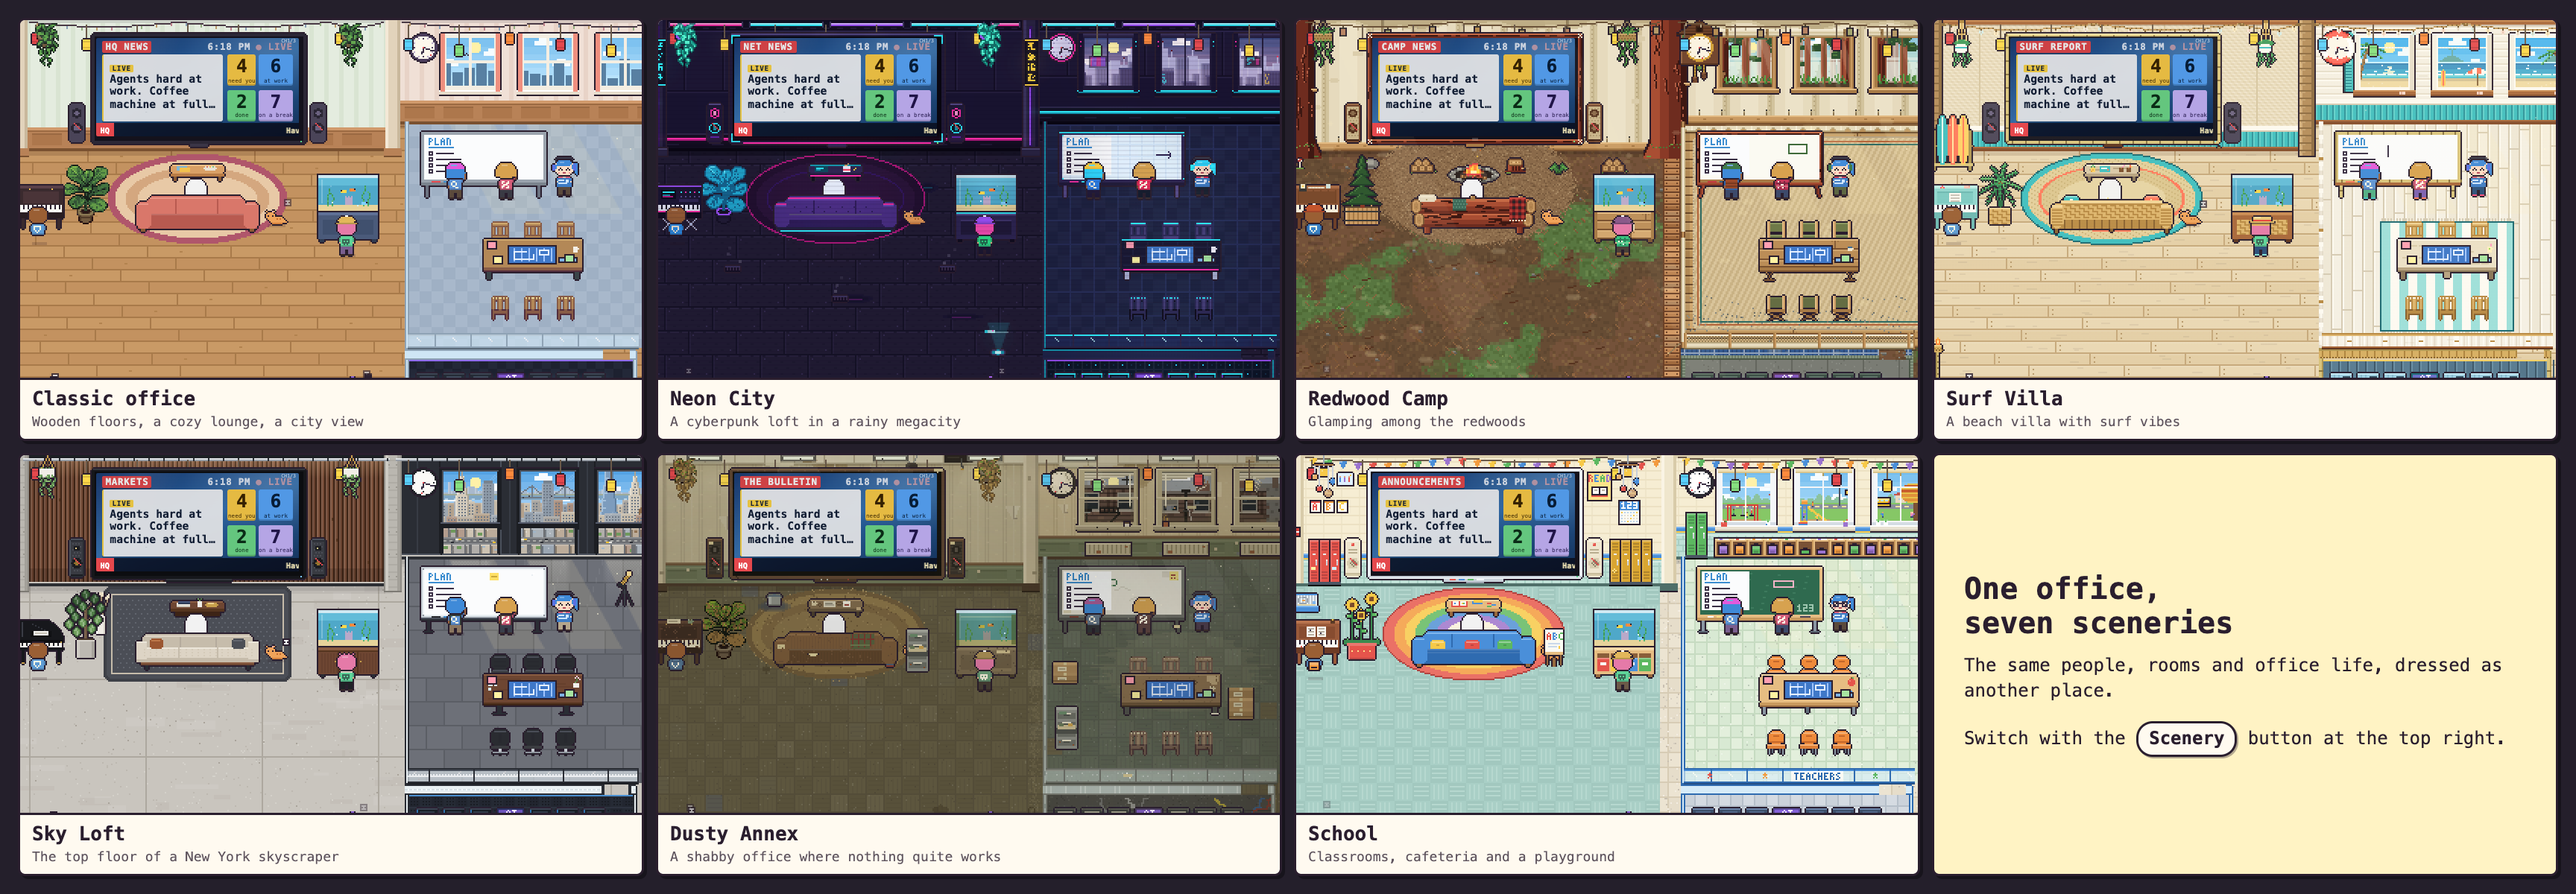
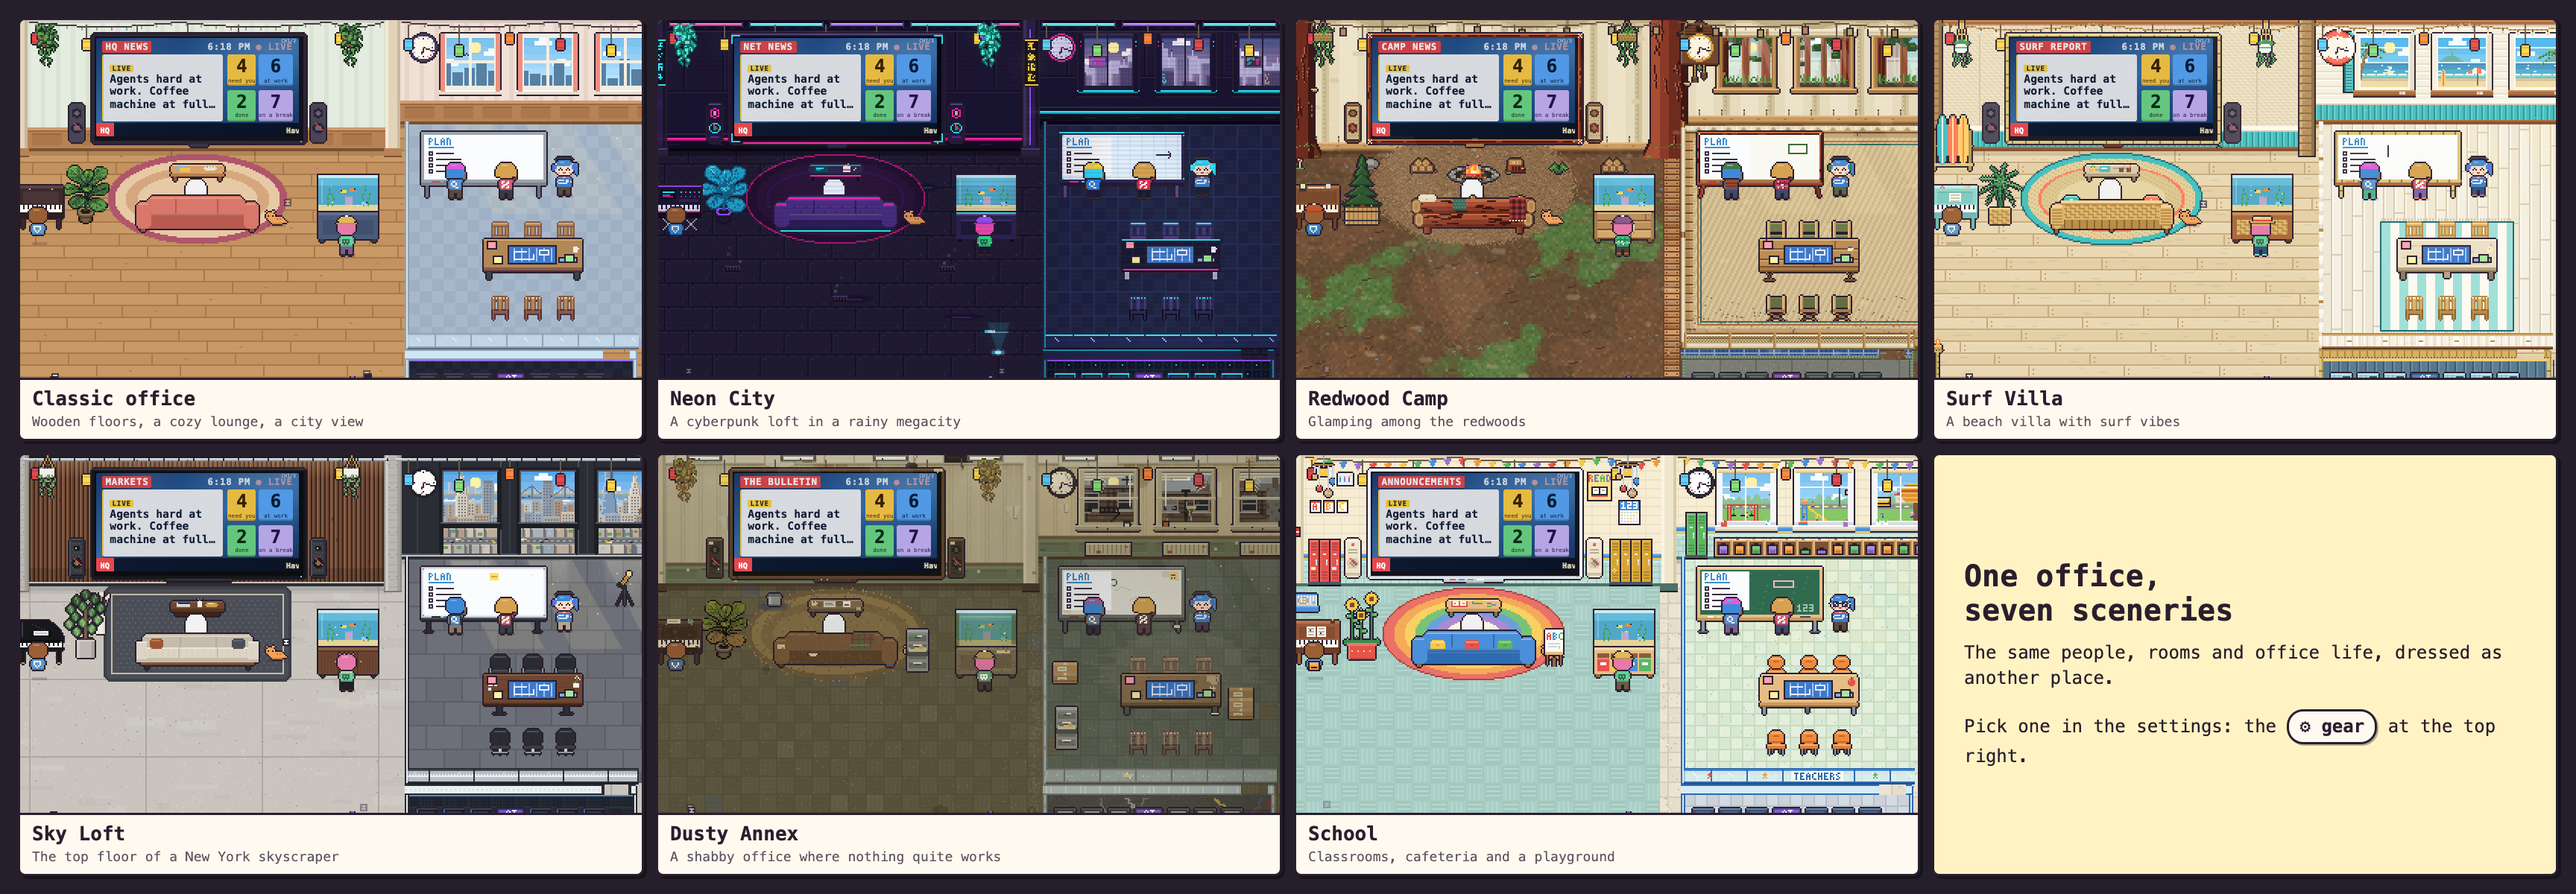
Cozy HQ 0.3.1: settings behind a gear
- A gear at the top right opens the settings: sound, the scenery and the
  office buddy (the speakers still open them too)
- The scenery switcher moves into the settings; the Names toggle stays
  next to the gear
- Docs and the scenery strip point to the gear

Changed region(s): [[0.75, 0.6167, 0.9688, 0.8633]]

diff --git a/office/OfficeView.tsx b/office/OfficeView.tsx
@@ -250,7 +250,7 @@ export function OfficeView(input: OfficeProps) {
   const [prefs, setPrefs] = useState<SoundPrefs>(() =>
     readJson<SoundPrefs>(`${storageKey}:sound`, { on: true, volume: 0.5, ambient: true }),
   );
-  const [soundOpen, setSoundOpen] = useState(false);
+  const [settingsOpen, setSettingsOpen] = useState(false);
   const [legendOpen, setLegendOpen] = useState(false);
   const [fit, setFit] = useState<Fit | null>(null);
   const [layout, setLayout] = useState<Layout | null>(null);
@@ -691,8 +691,7 @@ export function OfficeView(input: OfficeProps) {
   const onClick = (e: React.MouseEvent) => {
     sound.unlock();
     const hit = world.hitTest(toNative(e).x, toNative(e).y);
-    setSoundOpen(false);
-    setSceneryOpen(false);
+    setSettingsOpen(false);
     if (!hit) {
       setLegendOpen(false);
       return;
@@ -751,7 +750,7 @@ export function OfficeView(input: OfficeProps) {
         }
         break;
       case "speaker":
-        setSoundOpen(true);
+        setSettingsOpen(true);
         play("click");
         break;
       case "tv":
@@ -772,7 +771,6 @@ export function OfficeView(input: OfficeProps) {
   const [sceneryId, setSceneryId] = useState(() => readJson(`${storageKey}:scenery`, { id: "classic" }).id);
   useEffect(() => writeJson(`${storageKey}:scenery`, { id: sceneryId }), [sceneryId, storageKey]);
   const theme = themeById(debug.scenery ?? sceneryId);
-  const [sceneryOpen, setSceneryOpen] = useState(false);
   useEffect(() => {
     world.setTheme(theme);
     sound.setRecipes(theme.sounds);
@@ -915,7 +913,7 @@ export function OfficeView(input: OfficeProps) {
       case "tv":
         return <div className="chq-tip-hint">Change the channel</div>;
       case "speaker":
-        return <div className="chq-tip-hint">Sound {prefs.on ? `${Math.round(prefs.volume * 100)}%` : "off"}</div>;
+        return <div className="chq-tip-hint">Sound {prefs.on ? `${Math.round(prefs.volume * 100)}%` : "off"} · settings</div>;
       case "pinboard":
         return <div className="chq-tip-hint">Provider usage · refresh</div>;
       case "window":
@@ -988,13 +986,14 @@ export function OfficeView(input: OfficeProps) {
                 onOpenUrl={props.onOpenUrl}
                 onOpenThread={props.onOpenThread}
               />
-              {soundOpen ? (
-                <SoundPanel
-                  style={{
-                    left: Math.min((layout.speakers[1]!.x + layout.speakers[1]!.w + 4) * scale, W - 200),
-                    top: layout.speakers[1]!.y * scale,
-                  }}
+              {settingsOpen ? (
+                <SettingsPanel
                   prefs={prefs}
+                  scenery={theme}
+                  onScenery={(id) => {
+                    setSceneryId(id);
+                    play("chime");
+                  }}
                   onChange={(next) => {
                     sound.unlock();
                     setPrefs(next);
@@ -1005,7 +1004,7 @@ export function OfficeView(input: OfficeProps) {
                   }}
                   buddyOn={props.buddyOn}
                   onBuddy={props.onBuddy}
-                  onClose={() => setSoundOpen(false)}
+                  onClose={() => setSettingsOpen(false)}
                 />
               ) : null}
               {legendOpen ? (
@@ -1019,22 +1018,6 @@ export function OfficeView(input: OfficeProps) {
           ) : null}
           <NameTags tags={tags} width={W} height={H} onOpen={props.onOpenThread} />
           <Speech bubbles={speech} scale={scale} width={W} />
-          {layout ? (
-            <SceneryPicker
-              current={theme}
-              open={sceneryOpen}
-              onToggle={() => {
-                sound.unlock();
-                play("click");
-                setSceneryOpen((o) => !o);
-              }}
-              onPick={(id) => {
-                setSceneryId(id);
-                setSceneryOpen(false);
-                play("chime");
-              }}
-            />
-          ) : null}
           {layout ? (
             <button
               type="button"
@@ -1054,6 +1037,31 @@ export function OfficeView(input: OfficeProps) {
               <span>Names</span>
             </button>
           ) : null}
+          {layout ? (
+            <button
+              type="button"
+              className={`chq-gear-btn${settingsOpen ? " is-on" : ""}`}
+              aria-expanded={settingsOpen}
+              aria-label="Settings"
+              title="Settings: sound, scenery, buddy"
+              onClick={() => {
+                sound.unlock();
+                play("click");
+                setSettingsOpen((o) => !o);
+              }}
+            >
+              <svg width="14" height="14" viewBox="0 0 16 16" aria-hidden>
+                <path
+                  d="M6.6 1h2.8l.4 1.9 1.3.6 1.7-1 2 2-1 1.7.5 1.3 1.9.4v2.8l-1.9.4-.5 1.3 1 1.7-2 2-1.7-1-1.3.5-.4 1.9H6.6l-.4-1.9-1.3-.5-1.7 1-2-2 1-1.7-.5-1.3L0 9.4V6.6l1.9-.4.5-1.3-1-1.7 2-2 1.7 1 1.3-.6z"
+                  fill="none"
+                  stroke="currentColor"
+                  strokeWidth="1.4"
+                  strokeLinejoin="round"
+                />
+                <circle cx="8" cy="8" r="2.2" fill="none" stroke="currentColor" strokeWidth="1.4" />
+              </svg>
+            </button>
+          ) : null}
           {tooltip && tipPos ? (
             <div
               className={`chq-tip${tipPos.y * scale < 96 ? " is-below" : ""}`}
@@ -1071,38 +1079,6 @@ export function OfficeView(input: OfficeProps) {
         </div>
       </div>
     </div>
-  );
-}
-
-// -------------------------------------------------------------- scenery picker
-
-/** Top right: dress the office as another place. */
-function SceneryPicker(props: { current: Theme; open: boolean; onToggle: () => void; onPick: (id: string) => void }) {
-  return (
-    <>
-      <button type="button" className={`chq-scenery-btn${props.open ? " is-on" : ""}`} aria-expanded={props.open} title="Scenery: dress the office as another place" onClick={props.onToggle}>
-        <span aria-hidden>{props.current.icon}</span>
-        <span>Scenery</span>
-      </button>
-      {props.open ? (
-        <div className="chq-scenery-pop" role="menu" aria-label="Scenery">
-          {THEMES.map((t) => (
-            <button
-              key={t.id}
-              type="button"
-              role="menuitemradio"
-              aria-checked={t.id === props.current.id}
-              className={`chq-scenery-item${t.id === props.current.id ? " is-current" : ""}`}
-              onClick={() => props.onPick(t.id)}
-            >
-              <i aria-hidden>{t.icon}</i>
-              <b>{t.name}</b>
-              <span>{t.blurb}</span>
-            </button>
-          ))}
-        </div>
-      ) : null}
-    </>
   );
 }
 
@@ -1617,9 +1593,11 @@ function Tv(props: {
 
 // -------------------------------------------------------------- sound
 
-function SoundPanel(props: {
-  style: CSSProperties;
+/** Top right, behind the gear (and the speakers): sound, scenery and the buddy. */
+function SettingsPanel(props: {
   prefs: SoundPrefs;
+  scenery: Theme;
+  onScenery: (id: string) => void;
   onChange: (p: SoundPrefs) => void;
   onTest: () => void;
   onClose: () => void;
@@ -1640,7 +1618,14 @@ function SoundPanel(props: {
     return () => window.removeEventListener("keydown", onKey);
   }, [props]);
   return (
-    <div className="chq-sound" style={props.style} ref={ref} role="dialog" aria-label="Sound">
+    <div className="chq-sound chq-settings" ref={ref} role="dialog" aria-label="Settings">
+      <div className="chq-settings-head">
+        <b>Settings</b>
+        <button type="button" className="chq-sound-x" aria-label="Close" onClick={props.onClose}>
+          ×
+        </button>
+      </div>
+      <div className="chq-settings-label">Sound</div>
       <div className="chq-sound-row">
         <button
           type="button"
@@ -1649,9 +1634,6 @@ function SoundPanel(props: {
           onClick={() => props.onChange({ ...prefs, on: !prefs.on })}
         >
           {prefs.on ? "🔊 Sound on" : "🔇 Sound off"}
-        </button>
-        <button type="button" className="chq-sound-x" aria-label="Close" onClick={props.onClose}>
-          ×
         </button>
       </div>
       <label className="chq-sound-vol">
@@ -1681,6 +1663,23 @@ function SoundPanel(props: {
       <button type="button" className="chq-sound-test" disabled={!prefs.on} onClick={props.onTest}>
         ♪ Play a test sound
       </button>
+      <div className="chq-settings-label">Scenery</div>
+      <div className="chq-scenery-list" role="radiogroup" aria-label="Scenery">
+        {THEMES.map((t) => (
+          <button
+            key={t.id}
+            type="button"
+            role="radio"
+            aria-checked={t.id === props.scenery.id}
+            className={`chq-scenery-item${t.id === props.scenery.id ? " is-current" : ""}`}
+            onClick={() => props.onScenery(t.id)}
+          >
+            <i aria-hidden>{t.icon}</i>
+            <b>{t.name}</b>
+            <span>{t.blurb}</span>
+          </button>
+        ))}
+      </div>
       <label className="chq-sound-amb chq-buddy-opt">
         <input type="checkbox" checked={props.buddyOn} onChange={(e) => props.onBuddy(e.target.checked)} />
         <span>Office buddy</span>

diff --git a/app.css b/app.css
@@ -765,41 +765,54 @@
 .chq-tag.is-read { font-weight: 500; background: #f6f1e7; }
 .chq-tag.is-read span { opacity: 0.85; }
 
-/* The scenery picker, next to the name tags switch. */
-.chq-scenery-btn {
+/* The settings gear, top right (the panel opens below it). */
+.chq-gear-btn {
   position: absolute;
   top: 8px;
-  right: 86px;
+  right: 10px;
   z-index: 9;
-  display: inline-flex;
-  align-items: center;
-  gap: 4px;
+  display: inline-grid;
+  place-items: center;
+  width: 24px;
   height: 22px;
-  padding: 0 8px 0 6px;
+  padding: 0;
   border: 1px solid #2a1e2e;
   border-radius: 11px;
   background: rgba(255, 250, 240, 0.82);
   color: #2a1e2e;
-  font: 700 10px/1 var(--chq-mono);
   cursor: pointer;
   box-shadow: 1px 1px 0 rgba(42, 30, 46, 0.35);
-  opacity: 0.8;
+  opacity: 0.85;
 }
-.chq-scenery-btn:hover, .chq-scenery-btn.is-on { opacity: 1; background: #fffaf0; }
-.chq-scenery-pop {
-  position: absolute;
+.chq-gear-btn:hover { opacity: 1; background: #fffaf0; }
+.chq-gear-btn.is-on { background: #2a1e2e; color: #fffaf0; opacity: 1; }
+.chq-gear-btn svg { transition: transform 300ms ease; }
+.chq-gear-btn:hover svg, .chq-gear-btn.is-on svg { transform: rotate(45deg); }
+.chq-sound.chq-settings {
   top: 36px;
   right: 10px;
-  z-index: 12;
-  display: grid;
-  gap: 4px;
-  width: 270px;
-  padding: 6px;
-  border: 1px solid #2a1e2e;
-  border-radius: 8px;
-  background: #fffaf0;
-  box-shadow: 3px 3px 0 rgba(42, 30, 46, 0.3);
+  width: 280px;
+  max-height: calc(100% - 46px);
+  overflow-y: auto;
+  transform: none;
+  animation: chq-drop-down 140ms ease-out;
 }
+@keyframes chq-drop-down {
+  from { opacity: 0; transform: translateY(-4px); }
+}
+.chq-settings-head { display: flex; align-items: center; justify-content: space-between; }
+.chq-settings-head b { font: 700 13px/1 var(--chq-mono); }
+.chq-settings-label {
+  margin: 12px 0 6px;
+  padding-top: 8px;
+  border-top: 1px dashed #c9bda9;
+  font: 700 10px/1 var(--chq-mono);
+  letter-spacing: 0.08em;
+  text-transform: uppercase;
+  opacity: 0.6;
+}
+.chq-settings-head + .chq-settings-label { margin-top: 6px; padding-top: 0; border-top: 0; }
+.chq-scenery-list { display: grid; gap: 2px; }
 .chq-scenery-item {
   display: grid;
   grid-template-columns: 26px 1fr;
@@ -824,7 +837,7 @@
 .chq-labels-btn {
   position: absolute;
   top: 8px;
-  right: 10px;
+  right: 42px;
   z-index: 9;
   display: inline-flex;
   align-items: center;

diff --git a/PLUGIN_OVERVIEW.md b/PLUGIN_OVERVIEW.md
@@ -9,7 +9,7 @@
 - A **home screen on the wall**: every enabled provider's usage on a pinboard, a calendar, a status light board, and a big TV with office news and live head counts, the office weather, Hacker News headlines and, if you use the Work Dashboard plugin, your inbox.
 - **Life in the office**: Biscuit the dog, Pixel the cat, a roomba, fish, a cleaning crew in the evening, a night guard, a glowing server room with an AI cluster, day and night with your clock, and your **real local weather** outside the windows.
 - **Office events** for idle threads (parties, cake, karaoke, cornhole, darts, kids day…) and **festivals** through the year with decorations and their own party: snow day, Lunar New Year, Valentine's Day, Carnival, St. Patrick's Day, Holi, Easter, Maifest, summer, Oktoberfest, Halloween, Diwali, Laternenfest, Thanksgiving and the holidays.
-- Lots to **click**, with synthesized sounds: the espresso machine, vending machine, piano, dartboard, plants, the globe, the couch, your own desk (whistles for the dog), and the windows (birds, crickets, rain, a foghorn…). Sound controls live on the office speakers.
+- Lots to **click**, with synthesized sounds: the espresso machine, vending machine, piano, dartboard, plants, the globe, the couch, your own desk (whistles for the dog), and the windows (birds, crickets, rain, a foghorn…). Sound, scenery and the buddy live behind the gear at the top right.
 - An **office buddy** that strolls in a corner of bb wherever you are (inside a thread, as that thread's figure), counting the threads with news since you last looked; the rail icon shows the same count.
 - Fits any panel, including a phone held upright.
 

diff --git a/skills/cozy-hq/SKILL.md b/skills/cozy-hq/SKILL.md
@@ -77,7 +77,7 @@ drizzle, rain, snow, thunderstorms with lightning), from Open-Meteo for your
 approximate location; click a window to open it and hear outside (birds,
 crickets at night, rain, wind, thunder, a foghorn in fog).
 
-The **Scenery** button (top right) dresses the same office as another place:
+The settings (the gear at the top right) pick a scenery that dresses the same office as another place:
 Classic office, Neon City (cyberpunk), Redwood Camp (glamping in the
 redwoods), Surf Villa (a beach villa), Sky Loft (a New York penthouse),
 Dusty Annex (a shabby back office) or School. Only the look, sounds and
@@ -105,9 +105,10 @@ weather.
   INBOX (newest items from the Work Dashboard plugin, if installed). Click the
   TV to switch channels; click a headline to open it.
 - The TV announces a running office event on the HQ NEWS channel.
-- Click either speaker next to the TV for the sound controls: on/off, volume
-  and ambient sounds (background life such as agents brewing coffee). Sound
-  preferences are kept per browser.
+- The gear at the top right (or either speaker next to the TV) opens the
+  settings: sound on/off, volume and ambient sounds (background life such as
+  agents brewing coffee), the scenery and the office buddy. These are kept
+  per browser. The **Names** button next to the gear toggles name tags.
 
 ## Settings
 

diff --git a/README.md b/README.md
@@ -60,9 +60,9 @@ sushi, burgers, tacos or ramen, and a few bring their own lunchbox.
 
 ## Sceneries
 
-The **Scenery** button (top right) dresses the office as another place. The
-people, rooms, events and everything that happens stay the same; the look,
-the sounds and the words change:
+Pick a scenery in the settings (the gear at the top right) to dress the
+office as another place. The people, rooms, events and everything that
+happens stay the same; the look, the sounds and the words change:
 
 ![The same corner of the office in all seven sceneries](docs/sceneries.png)
 
@@ -141,8 +141,10 @@ Your pick is kept per browser; the buddy dresses to match.
 
 ## Settings
 
-Sound is in the office itself: click either speaker next to the TV for on/off,
-volume and ambient sounds. Everything else:
+The gear at the top right of the office (or either speaker next to the TV)
+opens the settings: sound on/off, volume and ambient sounds, the scenery and
+the office buddy. Next to it, **Names** puts a name tag over everyone.
+Everything else:
 
 ```sh
 bb plugin config cozy-hq                    # show
